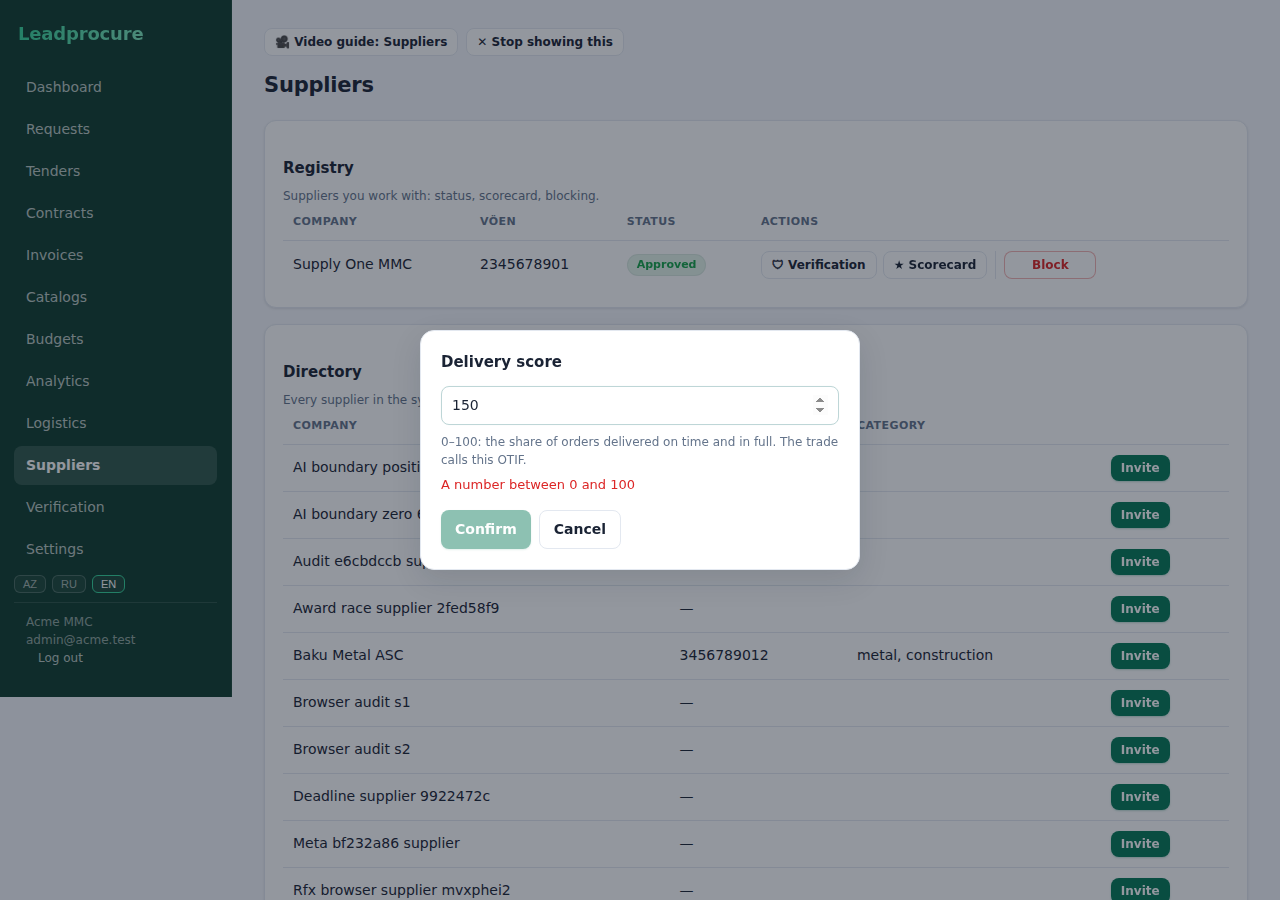
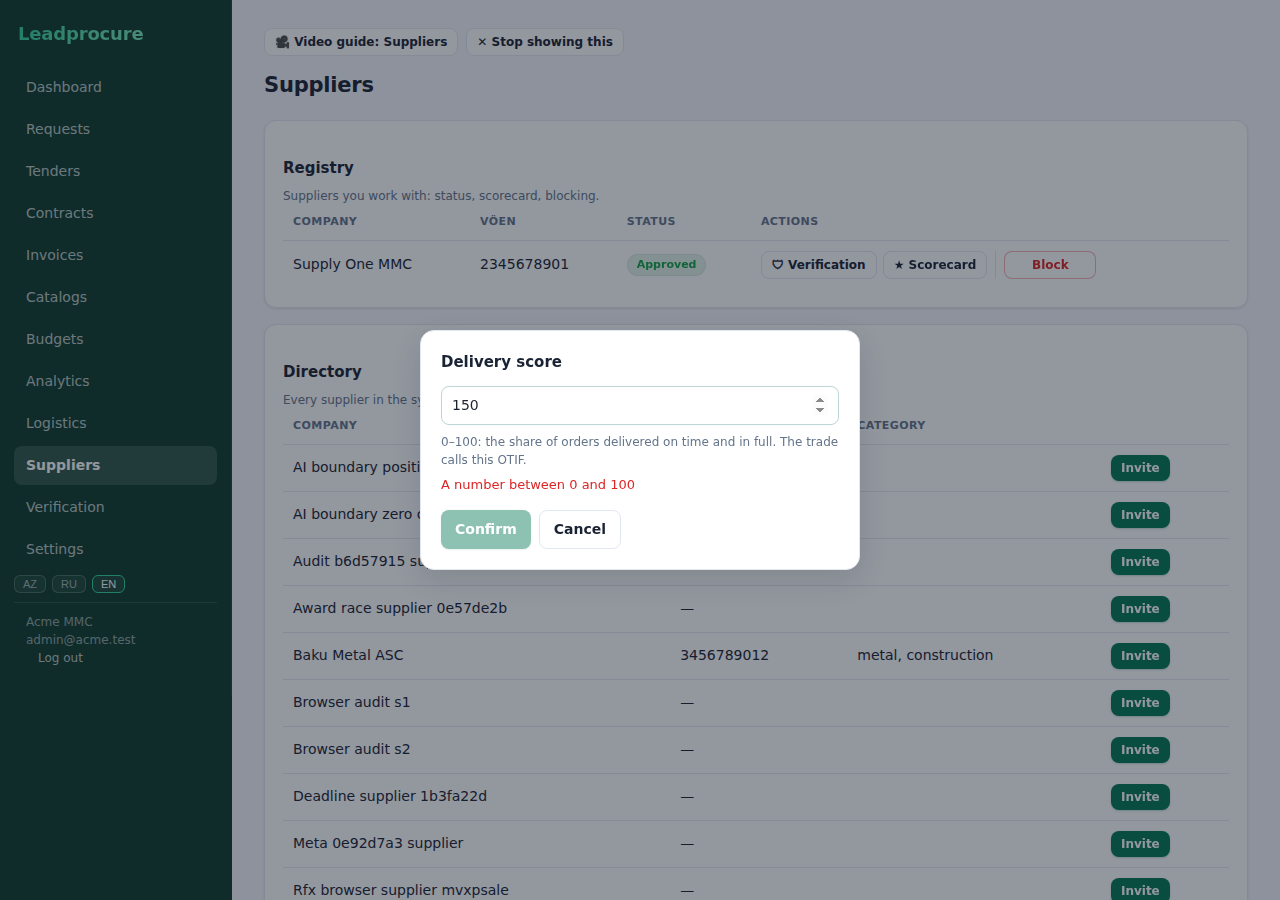
docs(audit): снимок волны 4 и волны 5

diff --git a/docs/ui-ux-audit-2026-10-31.md b/docs/ui-ux-audit-2026-10-31.md
@@ -852,6 +852,10 @@ SHIPPED, NEW, CREATED, ARCHIVED, SUPERSEDED**.
 
 > Добавлено владельцем 01.11.2026 по снимку диалога: «и названия сделай более
 > понятными». Сделано в PR #73.
+> [Как стало](./ui-ux-audit-2026-10-31/12-plain-names-after.png) — снимок из прогона
+> приёмки: справка одной строкой, заголовок сразу под ней, диалог назван словами.
+> Ещё одна правка нашлась только на картинке: липкий рейл стал ровно такой
+> высоты, как его ссылки, и тёмная заливка обрывалась на середине страницы.
 
 19. ~~«Рейтинг OTIF»~~ — «Оценка поставок». Аббревиатура переехала в пояснение под
     полем: профессионал узнает её, остальные читают слова. Подсказка кнопки рядом
